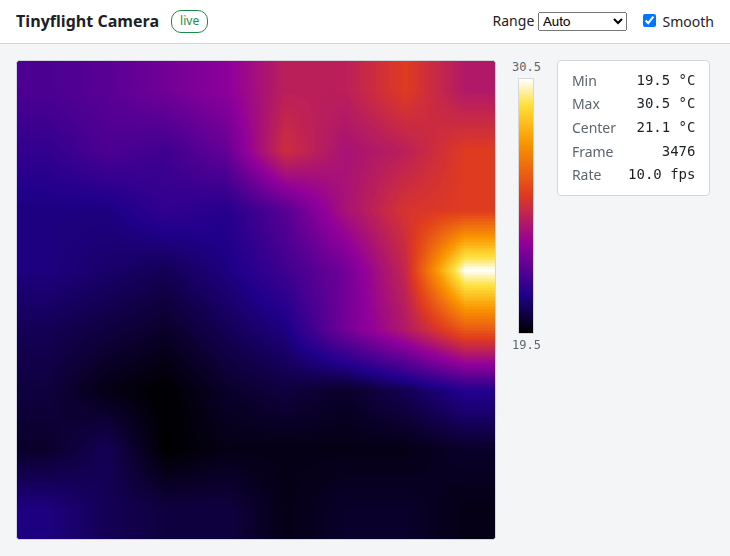
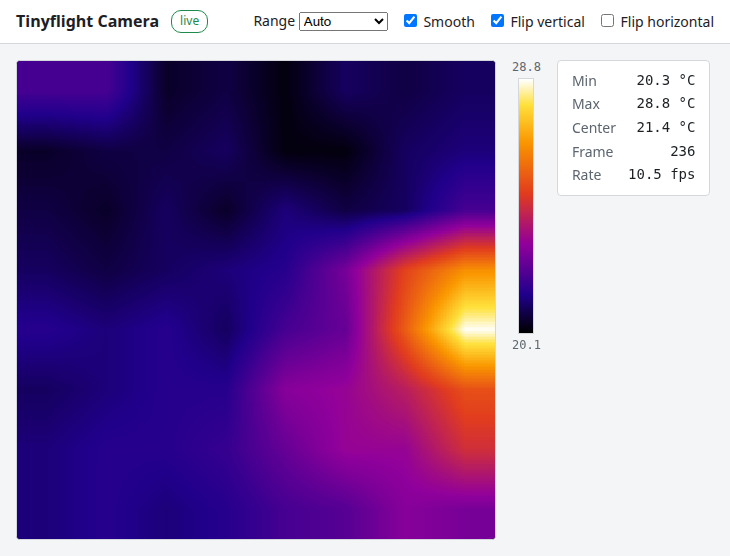
Add flip controls and reduce the noise in the camera view
The sensor now averages over two frames, and the auto range is at least 8 °C wide so an empty scene does not show the noise.

diff --git a/tools/cameraview/web/app.js b/tools/cameraview/web/app.js
@@ -26,6 +26,8 @@ const ctx = image.getContext('2d');
 const status = document.getElementById('status');
 const rangeSel = document.getElementById('range');
 const smooth = document.getElementById('smooth');
+const flipV = document.getElementById('flip-v');
+const flipH = document.getElementById('flip-h');
 const cursor = document.getElementById('cursor');
 const $ = (id) => document.getElementById(id);
 
@@ -39,19 +41,26 @@ for (let y = 0; y < 256; y++) {
 let last = null;
 let times = [];
 let mouse = null;
+let auto = null;
+
+// The sensor noise is about 0.3 °C, so a narrow auto range turns an empty scene into color noise.
+const minSpan = 8;
 
 function range(values) {
   switch (rangeSel.value) {
     case 'room': return [15, 40];
     case 'wide': return [0, 80];
   }
-  let lo = Math.min(...values), hi = Math.max(...values);
-  if (hi - lo < 2) {
-    const mid = (hi + lo) / 2;
-    lo = mid - 1;
-    hi = mid + 1;
-  }
-  return [lo, hi];
+  const lo = Math.min(...values);
+  const hi = Math.max(Math.max(...values), lo + minSpan);
+  // Ease toward the new range so the colors do not flicker from frame to frame.
+  auto = auto ? auto.map((v, i) => v + ([lo, hi][i] - v) * 0.2) : [lo, hi];
+  return auto;
+}
+
+// view maps a fractional position on the screen to one on the sensor, for a flipped mount.
+function view(fx, fy) {
+  return [flipH.checked ? 1 - fx : fx, flipV.checked ? 1 - fy : fy];
 }
 
 // sample reads the image at fractional pixel coordinates, bilinear when smoothing.
@@ -76,10 +85,9 @@ function draw() {
   const size = image.width;
   const img = ctx.createImageData(size, size);
   for (let py = 0; py < size; py++) {
-    const y = ((py + 0.5) / size) * h - 0.5;
     for (let px = 0; px < size; px++) {
-      const x = ((px + 0.5) / size) * w - 0.5;
-      const v = sample(values, w, h, x, y);
+      const [fx, fy] = view((px + 0.5) / size, (py + 0.5) / size);
+      const v = sample(values, w, h, fx * w - 0.5, fy * h - 0.5);
       const [r, g, b] = lut[Math.round(Math.min(1, Math.max(0, (v - lo) / (hi - lo))) * 255)];
       const i = (py * size + px) * 4;
       img.data[i] = r;
@@ -106,7 +114,8 @@ function showCursor() {
     return;
   }
   const { width: w, height: h, values } = last;
-  const v = sample(values, w, h, mouse.fx * w - 0.5, mouse.fy * h - 0.5);
+  const [fx, fy] = view(mouse.fx, mouse.fy);
+  const v = sample(values, w, h, fx * w - 0.5, fy * h - 0.5);
   cursor.hidden = false;
   cursor.style.left = `${mouse.x}px`;
   cursor.style.top = `${mouse.y}px`;
@@ -122,8 +131,24 @@ image.addEventListener('mouseleave', () => {
   mouse = null;
   showCursor();
 });
-rangeSel.addEventListener('change', draw);
+rangeSel.addEventListener('change', () => {
+  auto = null;
+  draw();
+});
 smooth.addEventListener('change', draw);
+
+// Remember the flips for this browser, since they follow how the camera is mounted.
+for (const box of [flipV, flipH]) {
+  try {
+    box.checked = localStorage.getItem(box.id) === '1';
+  } catch {}
+  box.addEventListener('change', () => {
+    try {
+      localStorage.setItem(box.id, box.checked ? '1' : '0');
+    } catch {}
+    draw();
+  });
+}
 
 function setStatus(text, cls) {
   status.textContent = text;

diff --git a/tools/cameraview/web/index.html b/tools/cameraview/web/index.html
@@ -20,6 +20,8 @@
       </select>
     </label>
     <label><input id="smooth" type="checkbox" checked> Smooth</label>
+    <label><input id="flip-v" type="checkbox"> Flip vertical</label>
+    <label><input id="flip-h" type="checkbox"> Flip horizontal</label>
   </div>
 </header>
 <main>

diff --git a/boards/stampfly/camera.go b/boards/stampfly/camera.go
@@ -20,7 +20,11 @@ func NewCamera() *amg88xx.Camera {
 	for _, addr := range []uint16{drvamg88xx.AddressHigh, drvamg88xx.AddressLow} {
 		dev := drvamg88xx.New(i2c)
 		dev.Address = addr
-		if dev.Configure(drvamg88xx.Config{}) == nil {
+		if dev.Configure(drvamg88xx.Config{}) != nil {
+			continue
+		}
+		// The sensor averages each pixel over two frames, which cuts the noise by about a third.
+		if dev.SetMovingAverageMode(true) == nil {
 			return amg88xx.New(&dev)
 		}
 	}

diff --git a/docs/camera.md b/docs/camera.md
@@ -64,7 +64,7 @@ Then open http://localhost:8081. On macOS the port looks like `/dev/cu.usbmodem1
 
 ![cameraview](../images/cameraview.png)
 
-The page shows the image, the coldest, hottest and center temperatures, and the frame rate. Hover over the image to read any spot. Range picks the color scale, and Smooth blends between the 8 by 8 pixels.
+The page shows the image, the coldest, hottest and center temperatures, and the frame rate. Hover over the image to read any spot. Range picks the color scale, and Smooth blends between the 8 by 8 pixels. Auto keeps the scale at least 8 °C wide, so an empty scene stays calm instead of showing the sensor noise. Flip vertical and Flip horizontal match how the camera is mounted, and the browser remembers them. Check both to turn the image upside down.
 
 ## Testing on the bench
 
@@ -86,6 +86,7 @@ Then open http://localhost:8081. A hand in front of the sensor shows as a warm s
 ## How it works
 
 - The drone reads the sensor every 100 ms on core 0. The flight loop on core 1 is not touched.
+- The sensor averages each pixel over two frames, from the AVE register in the Grid-EYE datasheet. On the bench this cut the noise from 0.40 °C to 0.27 °C per pixel.
 - Frames are only sent once the joystick has paired, since the joystick checks every packet while pairing. After that it ignores camera packets.
 - Each frame is one 139 byte broadcast, about 1.4 kB/s. The `cam_sent` and `cam_failed` counts in the USB printout show how many went out.
 - The receiver only listens and never sends.
